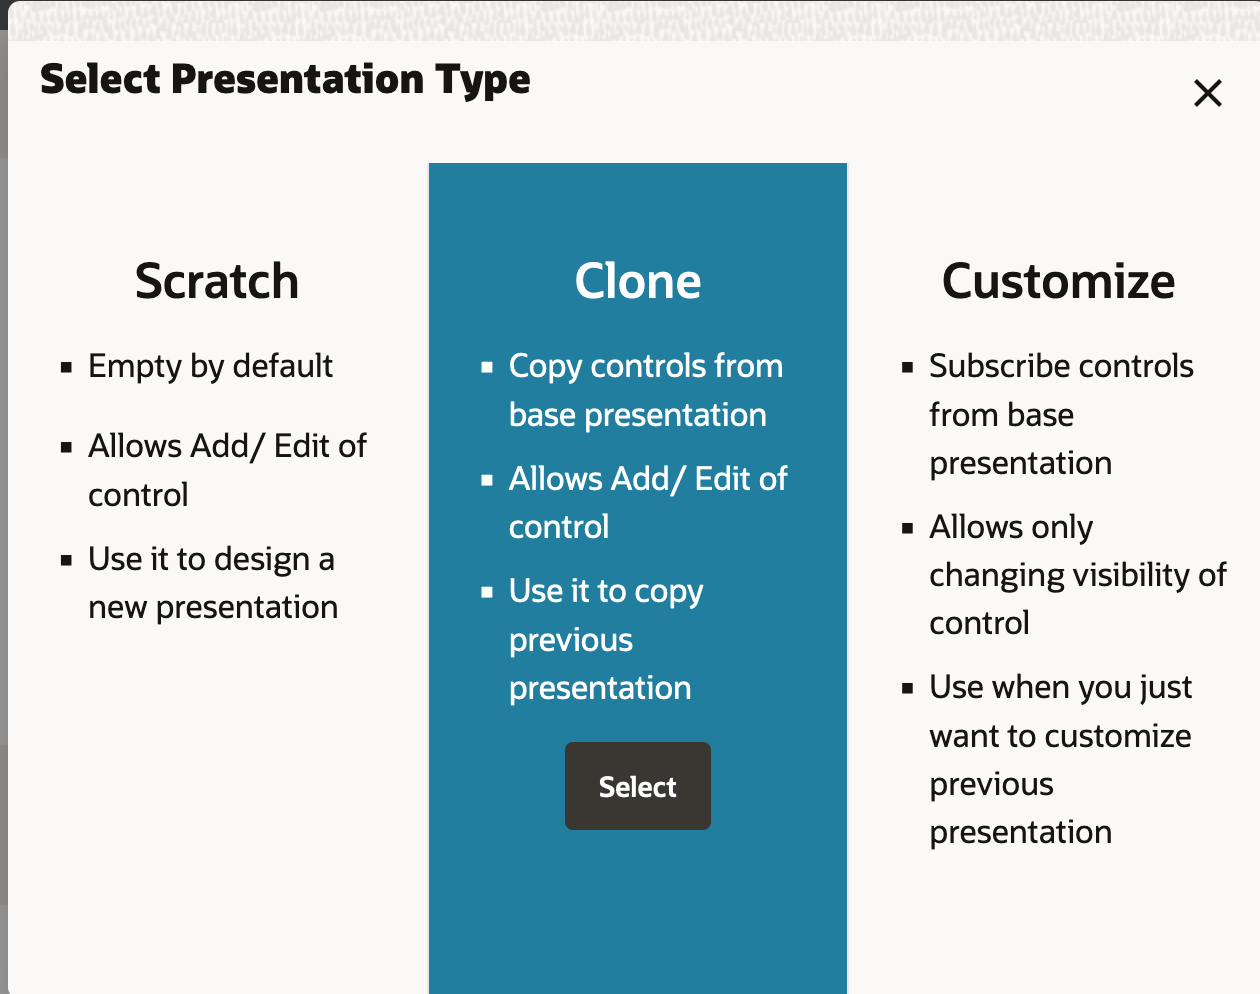
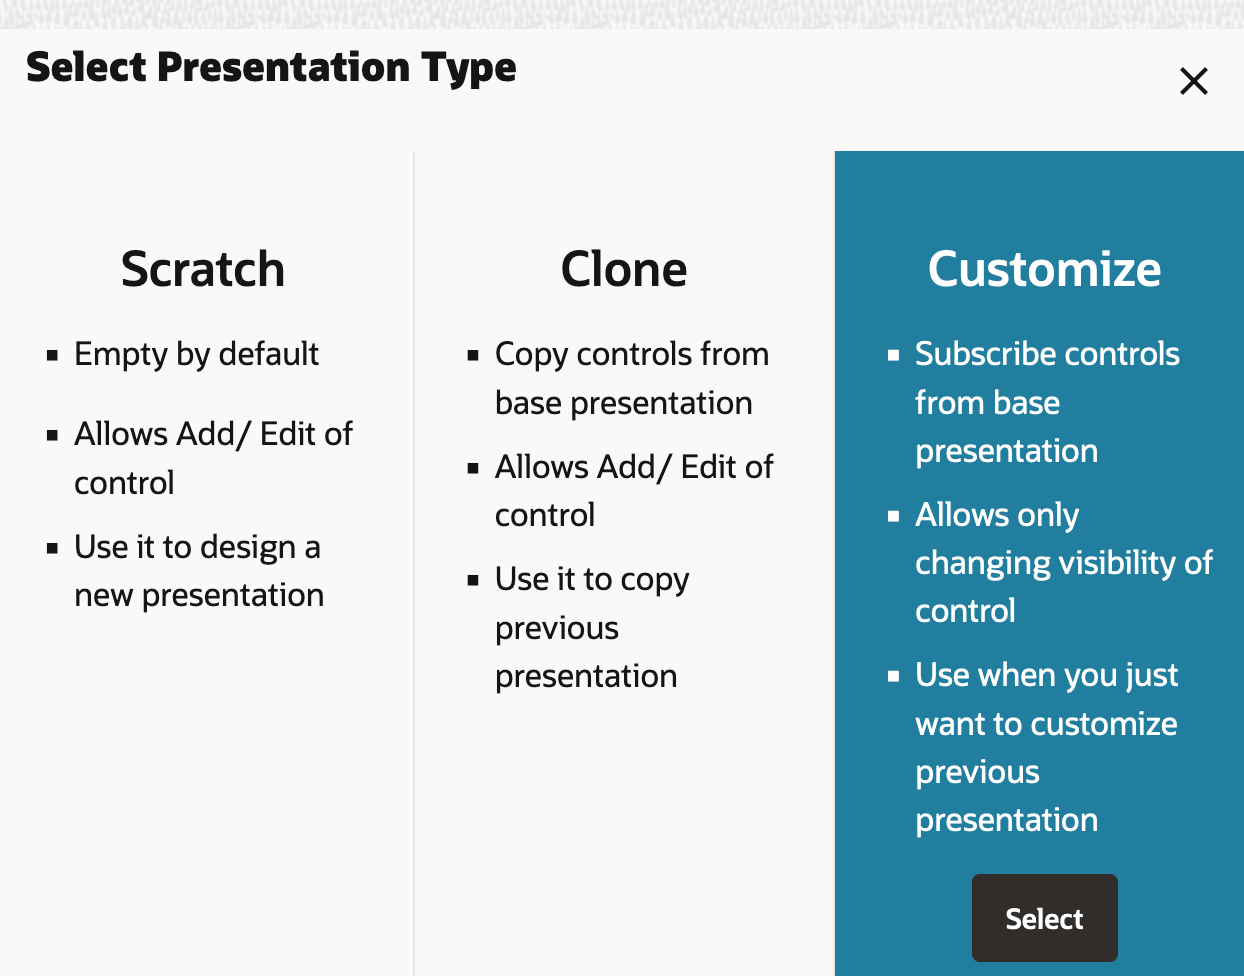
Peer review Aug 11
Peer review Aug 11

diff --git a/oic-gen3/cookbooks/erp-cloud-b2b/create-opa-flow/create-opa-flow.md b/oic-gen3/cookbooks/erp-cloud-b2b/create-opa-flow/create-opa-flow.md
@@ -350,19 +350,26 @@ For example, you can introduce the following behaviours into your forms:
 ## Task 9: Create Presentations to the forms
 We can now have the same form appearing differently to a different role which is convenient when some particular users do not need to see the form in the same way as others. In our case, we will create a **ApproverLOCForm** presentation that will show fewer fields, and it will be used for Manager approval task.
 
-1.	Navigate to **AttachLOCForm**
+1. Navigate to **AttachLOCForm**
 
-2.	From the main form properties pane, scroll down to **Presentation** section and add a presentation by clicking on *Add*.
+2. From the main form properties pane, scroll down to **Presentation** section and add a presentation by clicking on *Add*.
 
-3.	In the **Select Presentation Type** select *Clone* and click on *Select*
-	![Select Presentation Type](images/select-presentation-type-1.png)
+3. In the **Select Presentation Type** select *Customize* and click on *Select*
+	 ![Select Presentation Type](images/select-presentation-type-1.png)
 
-4.	Give it a name such as *ApproverLOCForm* and a description. Click *Create*
-	![Approvers View](images/approvers-view.png)
+4. Give it a name such as *ApproverLOCForm* and a description. Click *Create*
+	 ![Approvers View](images/approvers-view.png)
 
-5.	Make this presentation more synthetic by hiding *Select Order Number* field
-	![Approvers view Order Number](images/approvers-view-ordernumber.png)
-6. When you preview the form, it should look more or less like this (no obligation , you can do what you want):
+5. Click on *Customize*
+	 ![Customize Form](images/customize-form.png)
+6. Click on **hide** for *Select Order Number* and for *Divider* and click on **hidden** for *PO Header Details*
+	 ![hide fields](images/hide-fields.png)
+7. You should see the resultant screen as per the screenshot given below.
+	 ![hide fields1](images/hide-fields1.png)
+8. Select **PO Header Details** from the left side, click on **hide** and click on **mark readonly** for *Letter of credit id*
+	 ![hide fields2](images/hide-fields2.png)
+
+9. When you preview the form, it should look more or less like this (no obligation , you can do what you want):
 	![Approvers view Preview](images/approvers-view-preview.png)
 
 
